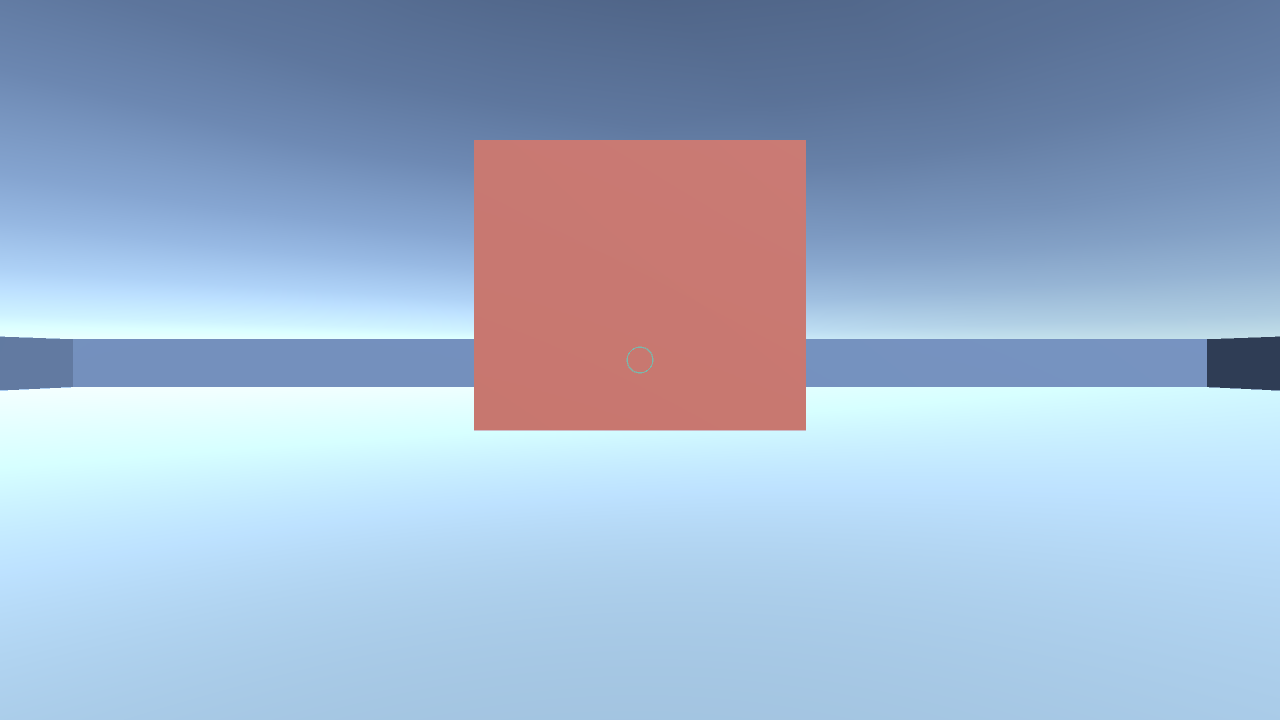
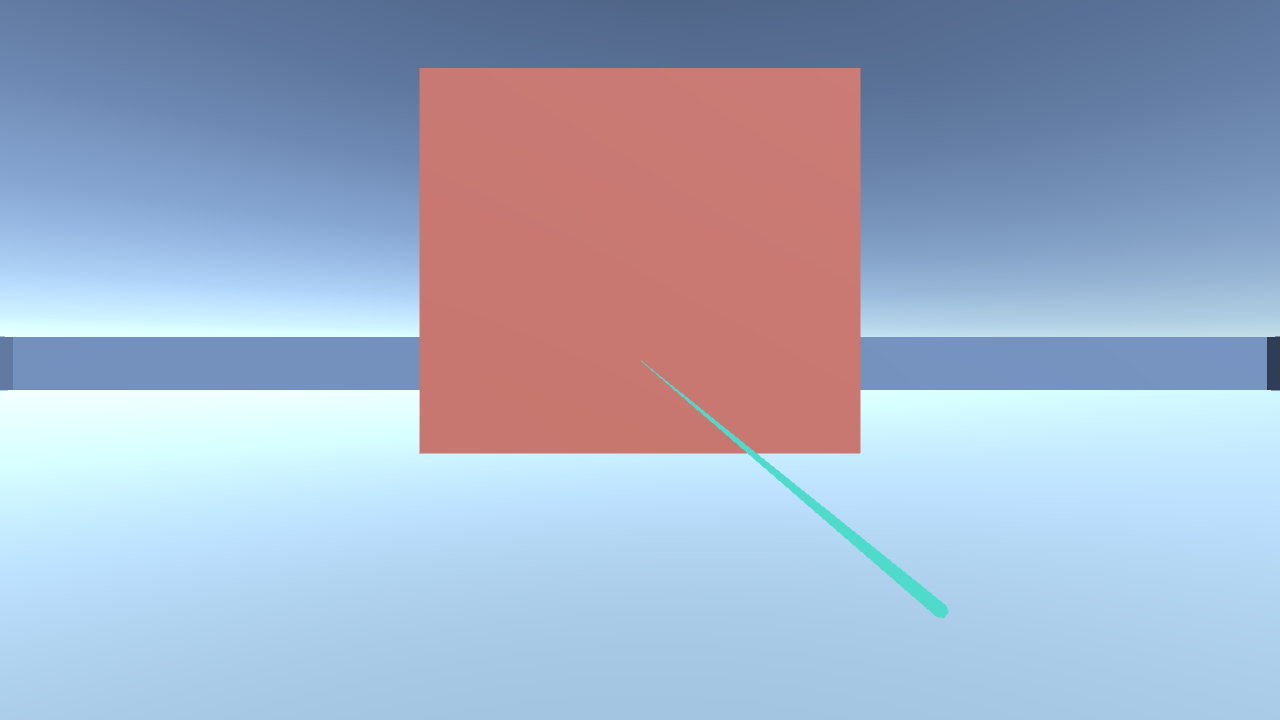
Make grapple tether readable from first-person hands and final third-person bones

Changed region(s): [[0.0, 0.0917, 1.0, 0.7333], [0.6562, 0.7333, 0.7188, 0.825], [0.7188, 0.825, 0.75, 0.8556]]

diff --git a/Assets/Scripts/Powers/Expansion/PowerExpansionSecondaryVerification.cs b/Assets/Scripts/Powers/Expansion/PowerExpansionSecondaryVerification.cs
@@ -25,10 +25,14 @@ public sealed partial class PowerExpansionVerificationRunner
         Check(Mathf.Abs(W.Powers.Energy-(energy-W.Powers.EnergyCost(W.Powers.SecondaryRuntime)))<.01f,"Grapple pays established secondary energy once");
         yield return new WaitForSeconds(.5f);
         Check(W.Hero.transform.position.z>before.z+1&&W.Hero.transform.position.z<13.5f,"Grapple traverses actual space with capsule collision, no teleport");
-        Check(Expansion.GrappleVelocity.magnitude<=22.01f,"Grapple speed remains bounded");Expansion.ReleaseGrapple();yield return null;Check(!Expansion.Grappling&&!Expansion.DrivesMotion,"Intentional release restores ordinary control");
+        Check(Expansion.GrappleVelocity.magnitude<=22.01f,"Grapple speed remains bounded");
+        var rope=W.Hero.GetComponentsInChildren<LineRenderer>().Single(x=>x.name=="Grapple tether");var eye=W.Powers.AimOrigin;
+        Check(Vector3.Cross(rope.GetPosition(0)-eye,(rope.GetPosition(1)-eye).normalized).magnitude>.1f,"First-person hand tether has visible separation from the center ray");Picture("grapple-first");Expansion.ReleaseGrapple();yield return null;Check(!Expansion.Grappling&&!Expansion.DrivesMotion,"Intentional release restores ordinary control");
         ReadySecondary();Check(W.Powers.UseSecondary(),"Grapple can reanchor");Destroy(wall);yield return null;yield return null;Check(!Expansion.Grappling&&!Expansion.DrivesMotion,"Destroyed anchor cannot leave stuck traversal");
         yield return EnterSecondary("grapple-line");ReadySecondary();var view=Camera.main.GetComponent<ThirdPersonCamera>();view.ToggleView();view.SetLook(0,0);yield return null;
-        wall=Wall(new Vector3(0,3,14),new Vector3(8,8,.5f));yield return null;Check(W.Powers.UseSecondary(),"Third-person crosshair grapple also anchors");
+        wall=Wall(new Vector3(0,3,14),new Vector3(8,8,.5f));yield return null;Check(W.Powers.UseSecondary(),"Third-person crosshair grapple also anchors");yield return new WaitForSeconds(.1f);
+        rope=W.Hero.GetComponentsInChildren<LineRenderer>().Single(x=>x.name=="Grapple tether");var hand=W.Hero.GetComponent<HumanoidPresentation>().Animator.GetBoneTransform(HumanBodyBones.RightHand);
+        Check(Vector3.Distance(rope.GetPosition(0),hand.position)<.01f,"Third-person tether follows the finalized right-hand bone");Picture("grapple-third");
         var blocker=Wall(new Vector3(0,2,4),new Vector3(8,5,.4f));yield return new WaitForSeconds(.2f);Check(!Expansion.Grappling,"CONTROL new intervening wall releases tether");Destroy(wall);Destroy(blocker);
         yield return EnterSecondary("mirage-decoy");ReadySecondary();Check(W.Powers.UseSecondary(),"Mirage summoned through real secondary payment path");yield return null;
         var decoy=Expansion.Decoy;Check(decoy!=null&&decoy.Alive,"One finite hologram active");

diff --git a/Assets/Scripts/Powers/Expansion/PowerExpansionTraversal.cs b/Assets/Scripts/Powers/Expansion/PowerExpansionTraversal.cs
@@ -41,7 +41,24 @@ public sealed partial class PowerExpansionRuntime
         var flags=User.Hero.MoveAbility(grappleVelocity,false);
         if((flags&CollisionFlags.Above)!=0&&grappleVelocity.y>0)grappleVelocity.y=0;
         if((flags&CollisionFlags.Sides)!=0){grappleVelocity*=.5f;if(distance<2.5f)ReleaseGrapple(true);}
-        tether.SetPosition(0,User.AimOrigin);tether.SetPosition(1,anchor);
+    }
+    void UpdateTether()
+    {
+        if(!Grappling||tether==null||!tether.enabled)return;
+        var camera=Camera.main;var view=camera!=null?camera.GetComponent<ThirdPersonCamera>():null;
+        bool first=view!=null&&view.FirstPerson;
+        float width=first? .012f:.045f;
+        if(!Mathf.Approximately(tether.startWidth,width)){tether.startWidth=width;tether.endWidth=first? .008f:.025f;}
+        Vector3 origin=transform.position+Vector3.up;
+        if(first)
+            origin=camera.transform.position+camera.transform.right*.24f-camera.transform.up*.2f+camera.transform.forward*.45f;
+        else
+        {
+            var pose=GetComponent<HumanoidPresentation>();var hand=pose?.Animator!=null&&pose.Animator.isHuman?pose.Animator.GetBoneTransform(HumanBodyBones.RightHand):null;
+            if(hand!=null)origin=hand.position;
+        }
+        // Visual hand origin only: anchor rays and collision checks continue to use the view-aware aim origin.
+        tether.SetPosition(0,origin);tether.SetPosition(1,grappleAnchor.transform.TransformPoint(localAnchor));
     }
     bool TetherClear(Vector3 from,Vector3 anchor)
     {

diff --git a/Assets/Scripts/Powers/Expansion/PowerExpansionMelee.cs b/Assets/Scripts/Powers/Expansion/PowerExpansionMelee.cs
@@ -101,7 +101,7 @@ public sealed partial class PowerExpansionRuntime
             Vfx.Emit(Art.Slash,origin+forward,forward,Vector3.one*(charge?1.8f:1),forward*3,.25f,plasma?CityColor.Cyan:CityColor.Cream,1,plasma?300:120);
         }finally{lunging=false;MeleePending=false;}
     }
-    void LateUpdate(){UpdateWeapons();}
+    void LateUpdate(){UpdateWeapons();UpdateTether();}
     void UpdateWeapons()
     {
         bool morph=User?.Selected?.Definition.Effect is CombatMorphingEffect,plasma=User?.Selected?.Definition.Effect is PlasmaBladesEffect;
